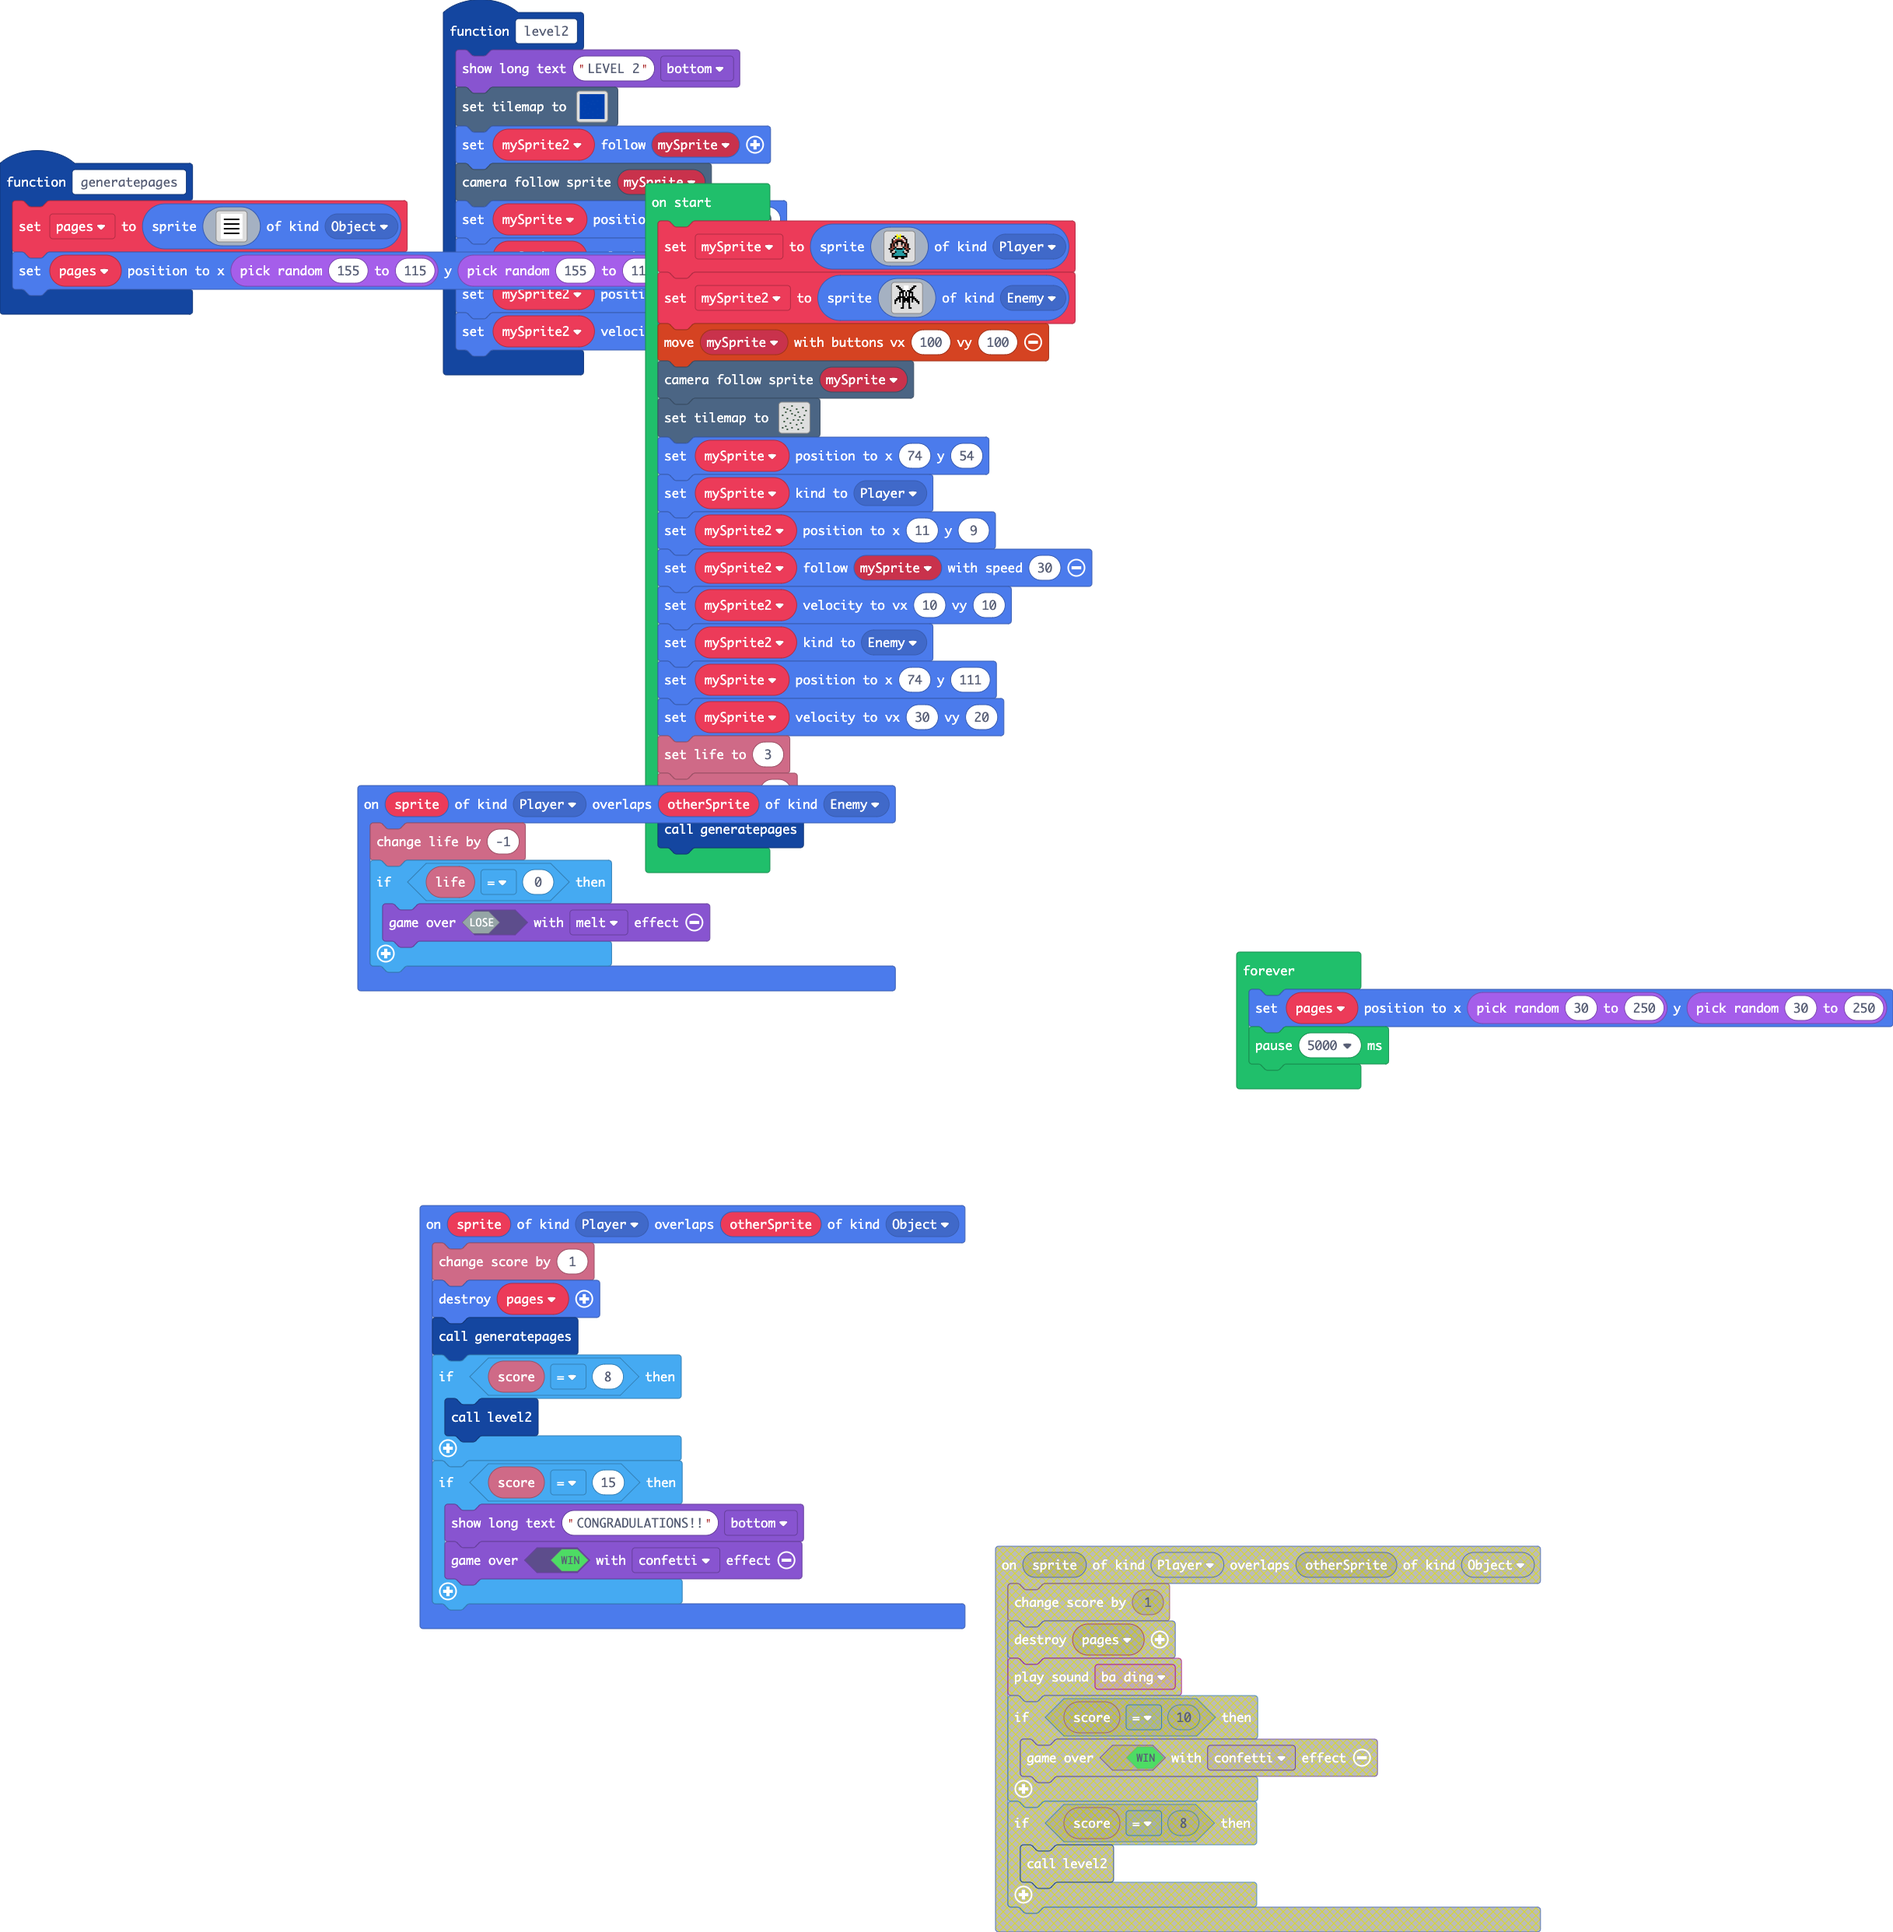
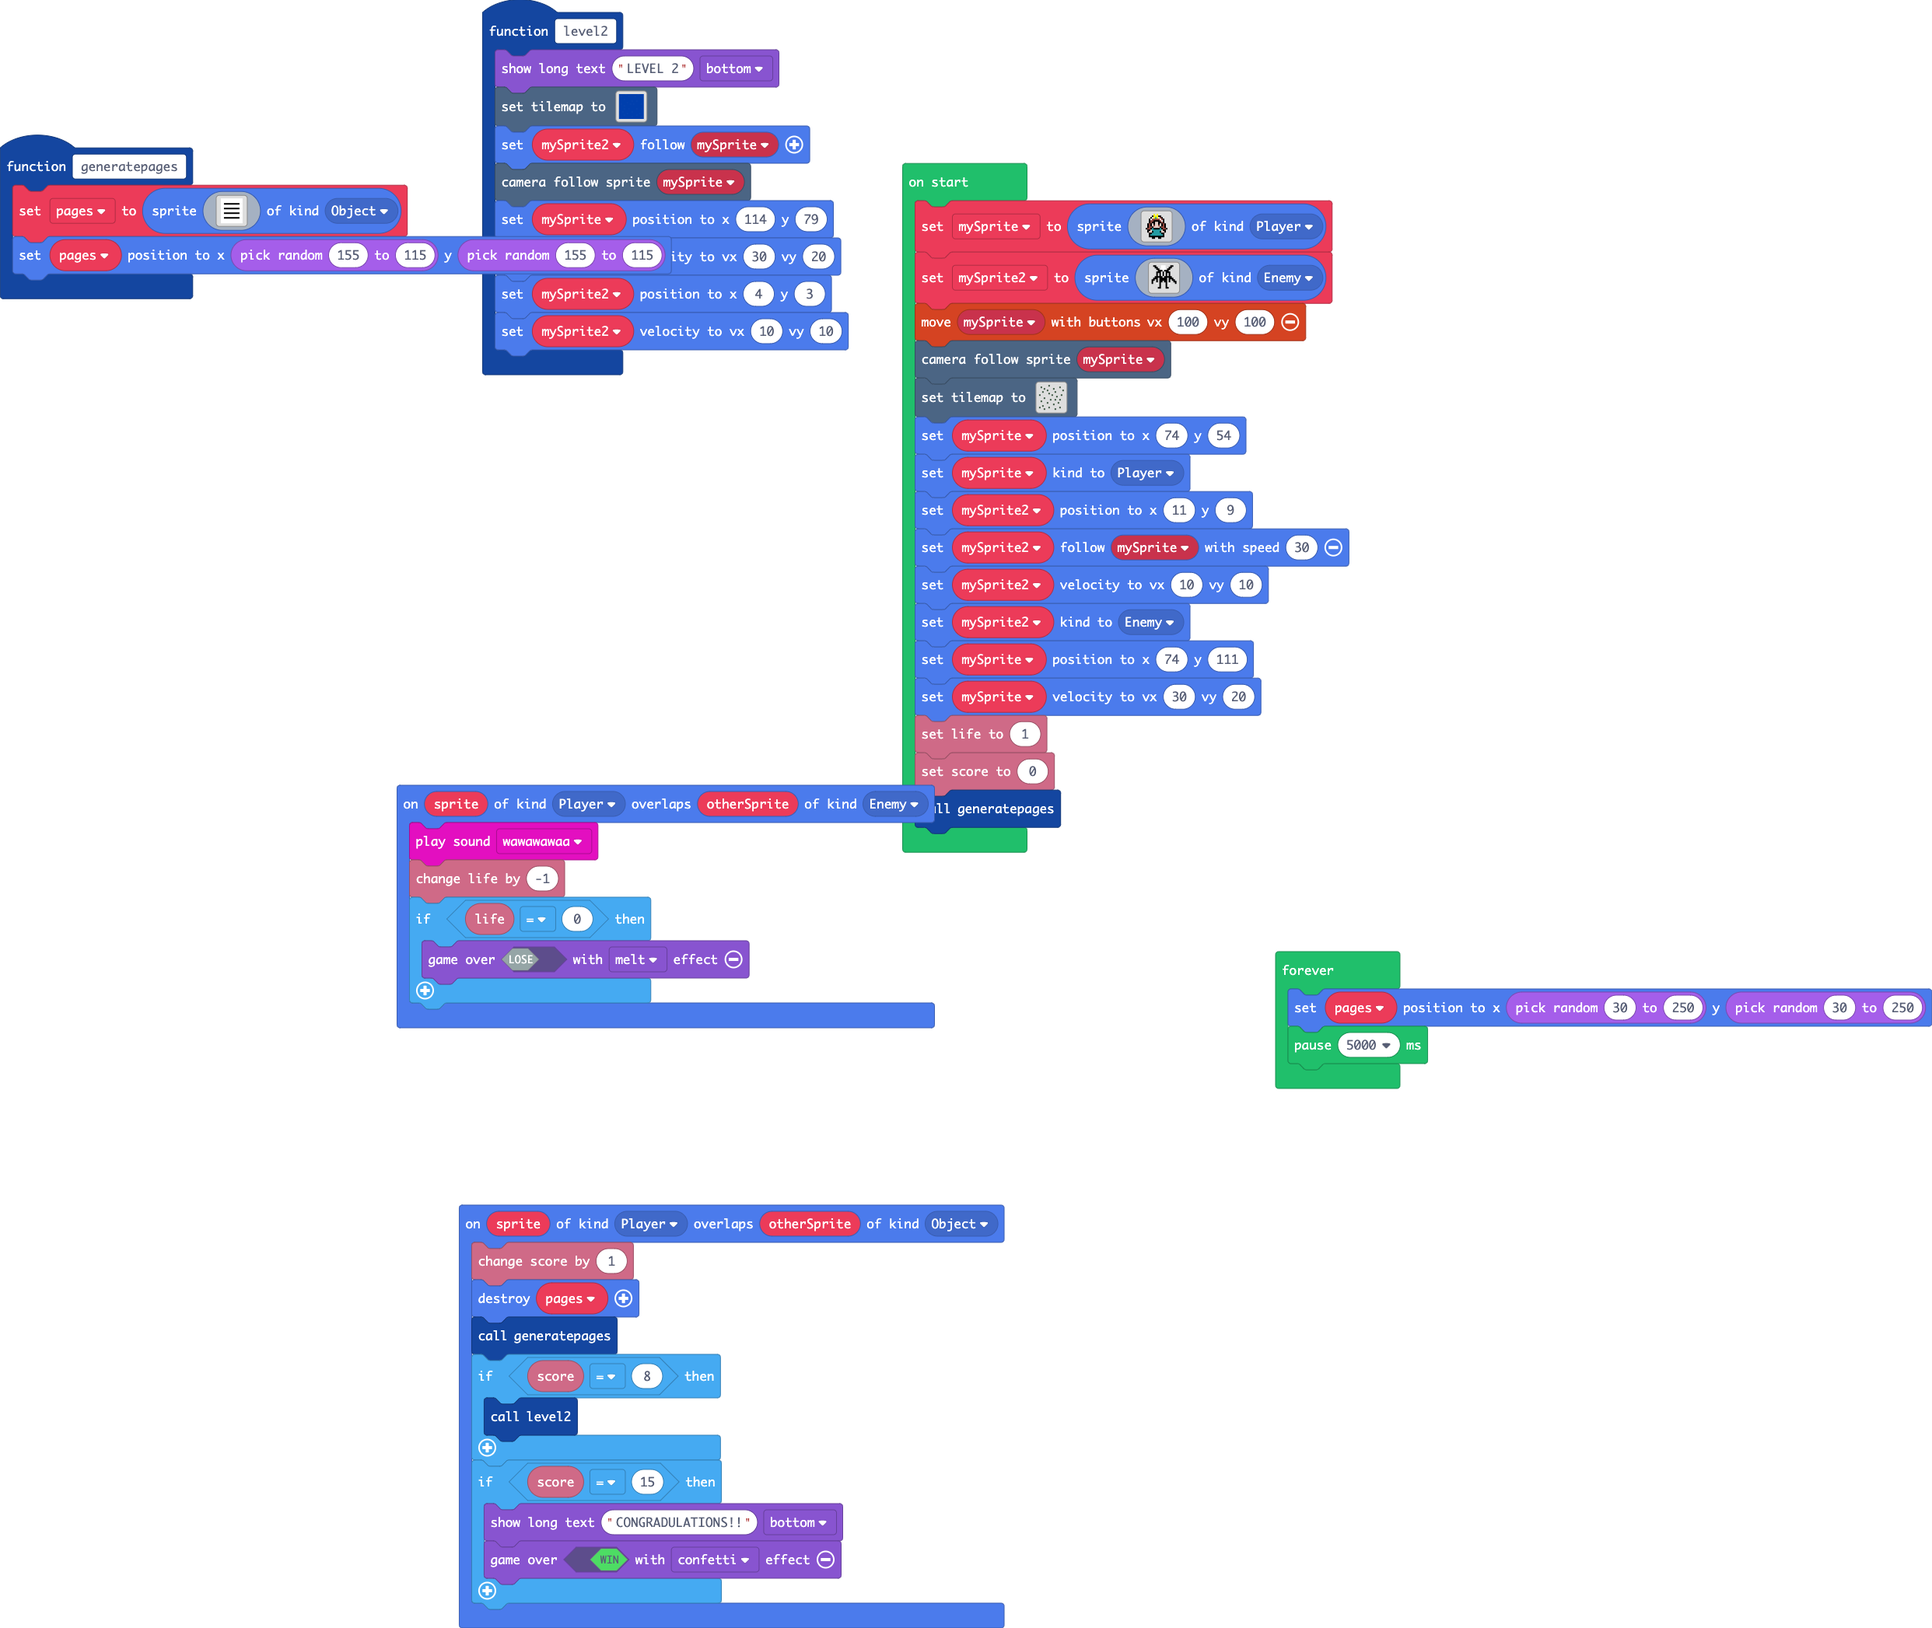
Update main.blocks, main.ts

Changed region(s): [[0.0, 0.0, 0.8118, 1.0], [0.6557, 0.4656, 1.0, 0.6829]]

diff --git a/main.ts b/main.ts
@@ -156,12 +156,13 @@ function level2 () {
         ))
     mySprite2.follow(mySprite)
     scene.cameraFollowSprite(mySprite)
-    mySprite.setPosition(81, 59)
+    mySprite.setPosition(114, 79)
     mySprite.setVelocity(30, 20)
     mySprite2.setPosition(4, 3)
     mySprite2.setVelocity(10, 10)
 }
 sprites.onOverlap(SpriteKind.Player, SpriteKind.Enemy, function (sprite, otherSprite) {
+    music.wawawawaa.play()
     info.changeLifeBy(-1)
     if (info.life() == 0) {
         game.over(false, effects.melt)
@@ -260,7 +261,7 @@ mySprite2.setVelocity(10, 10)
 mySprite2.setKind(SpriteKind.Enemy)
 mySprite.setPosition(74, 111)
 mySprite.setVelocity(30, 20)
-info.setLife(3)
+info.setLife(1)
 info.setScore(0)
 generatepages()
 forever(function () {
